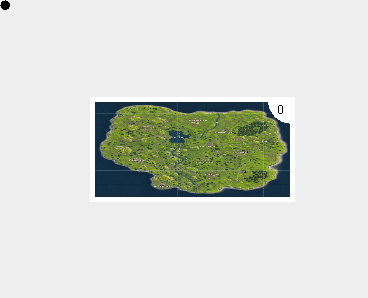
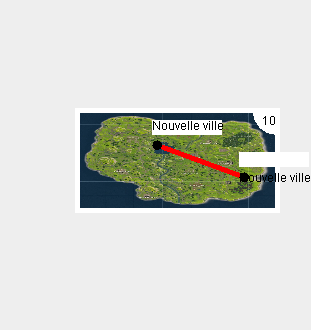
Salut

Changed region(s): [[0.2315, 0.3322, 1.0, 0.6644], [0.0, 0.0, 0.0289, 0.0302]]

diff --git a/Projet/ihm/sectioncreer/PanelCreerCarteObjectif.java b/Projet/ihm/sectioncreer/PanelCreerCarteObjectif.java
@@ -37,6 +37,7 @@ import java.security.cert.PKIXRevocationChecker.Option;
 import java.util.List;
 import java.awt.GridLayout;
 
+
 import main.Controleur;
 import metier.Noeud;
 
@@ -52,6 +53,7 @@ public class PanelCreerCarteObjectif extends JPanel implements ActionListener
 	private JPanel panelLstNoeud;
 	private JButton btnHistoriqueCarte;
 	private JButton btnCreerCarte;
+	private JButton btnInformation;
 	private JPanel panelDispoArriere;
 	private JLabel lblImageArriere;
 
@@ -94,22 +96,18 @@ public class PanelCreerCarteObjectif extends JPanel implements ActionListener
 		this.txtNbPoint.setText(0 + "");
 		this.txtNbPoint.setHorizontalAlignment(JTextField.CENTER);
 			
-		this.btnHistoriqueCarte = new JButton("Historique des cartes");
+		this.btnHistoriqueCarte = new JButton("Historique des cartes créées");
 		this.btnCreerCarte = new JButton("Créer carte");
 		this.lblImageArriere = new JLabel("Erreur");
 
-		this.btnModifierMotif = new JButton("Modifier le motif");
+		this.btnModifierMotif = new JButton("Importer une carte verso");
 
 		this.panelDispoArriere = new JPanel(new BorderLayout(10,10));
 		this.panelApercuFace = new PanelApercuFace(this.ctrl);
 		
 		JPanel panelDispoListeApercu = new JPanel(new GridLayout(2,1));
-
 		JPanel panelDispoListe = new JPanel(new BorderLayout());
-		JPanel panelDispoGestionPoint = new JPanel(new BorderLayout(10,0));
-
 		JPanel panelDispoApercu = new JPanel(new GridLayout(1,2,10,10));
-	
 		JPanel panelDispoBtnCreerHistorique = new JPanel(new GridLayout(2,1,5,5));
 
 		/**
@@ -124,15 +122,20 @@ public class PanelCreerCarteObjectif extends JPanel implements ActionListener
 		this.scrollPaneNoeud = new JScrollPane(this.panelLstNoeud);
 		panelDispoListe.add(this.scrollPaneNoeud);
 		
-		JPanel panelTest = new JPanel(new GridLayout(1,2));
-
-		panelDispoGestionPoint.add(new JLabel("Nb points de la carte :",JLabel.CENTER),BorderLayout.WEST);
-		panelDispoGestionPoint.add(this.txtNbPoint, BorderLayout.CENTER);
-		panelDispoGestionPoint.add(new JLabel("points", JLabel.CENTER), BorderLayout.EAST);
-
+		JPanel panelTest = new JPanel(new GridLayout(2,3,5,5));
 		
-		panelTest.add(new JLabel("Note d'utilisation : ",JLabel.CENTER),BorderLayout.NORTH);
-		panelTest.add(panelDispoGestionPoint);
+		this.btnInformation = new JButton("Notice d'utilisation");
+		this.btnInformation.setBackground(Color.WHITE);
+		this.btnInformation.addActionListener(this);
+
+
+		panelTest.add(new JLabel());
+		panelTest.add(this.btnInformation);
+		panelTest.add(new JLabel());
+
+		panelTest.add(new JLabel("Nb points de la carte :",JLabel.CENTER));
+		panelTest.add(this.txtNbPoint);
+		panelTest.add(new JLabel("points", JLabel.LEFT));
 
 		panelDispoListe.add(panelTest,BorderLayout.SOUTH);
 		
@@ -260,14 +263,33 @@ public class PanelCreerCarteObjectif extends JPanel implements ActionListener
 				JPanel panelDispoZoom = new JPanel(new GridLayout(this.ctrl.getLstCarteObjectif().size(),1));
 
 				for(int index = 0; index < this.ctrl.getLstCarteObjectif().size(); index++)
-					panelDispoZoom.add(new BtnZoomCarte("donnee/carteObjectif/" +this.ctrl.getPathImg().substring(8) + "/" + repertoireCarteObjectif[index],index));
+				{
+					panelDispoZoom.add(new BtnZoomCarte("donnee/carteObjectif/" + this.ctrl.getPathImg().substring(8) + "/" + repertoireCarteObjectif[index],index));	
+				}
 				
 				popUpHistoirque.add(new JScrollPane(panelDispoZoom),BorderLayout.CENTER);
 			}
 			
 			popUpHistoirque.setVisible(true);
-			
-			
+		}
+
+		if(e.getSource() == this.btnInformation)
+		{
+			JDialog popUpInformation = new JDialog();
+			popUpInformation.setSize(600,400);
+			popUpInformation.setResizable(false);
+			popUpInformation.setBounds(110,200,600,400);
+			popUpInformation.setTitle("Information sur la création de carte objectif");
+
+			JPanel panelInformation = new JPanel(new GridLayout(4,1,10,10));
+			panelInformation.add(new JLabel("- Appuyez entrer après la saisie du nombre de point pour valider"));
+			panelInformation.add(new JLabel("- Pour créer une carte objectif, selectionnez un noeud en double cliquant sur la liste 1, puis sur la miniature, faites un clique gauche"));
+			panelInformation.add(new JLabel("- Pour relier le chemin, selectionnez un noeud en double cliquant sur la liste 2, puis sur la miniature, faites un clique gauche"));
+			panelInformation.add(new JLabel("- Pour importer une carte verso, cliquez sur le bouton importer"));
+
+
+			popUpInformation.add(panelInformation,BorderLayout.CENTER);
+			popUpInformation.setVisible(true);
 		}
 	}
 
@@ -292,6 +314,7 @@ public class PanelCreerCarteObjectif extends JPanel implements ActionListener
 			this.pathImg = pathImg;
 			this.indexCarteObjectif = indexcarteObjectif;
 			this.btnZoom = new JButton(new ImageIcon(this.pathImg));
+			this.btnZoom.setBackground(Color.WHITE);
 
 			this.btnSuppr = new JButton("Supprimer");
 
@@ -300,7 +323,7 @@ public class PanelCreerCarteObjectif extends JPanel implements ActionListener
 			this.add(this.btnZoom,BorderLayout.CENTER);
 			this.add(this.btnSuppr,BorderLayout.SOUTH);
 
-			this.setBackground(Color.BLUE);
+			this.setBackground(Color.WHITE);
 
 			this.btnZoom.addActionListener(this);
 			this.btnSuppr.addActionListener(this);
